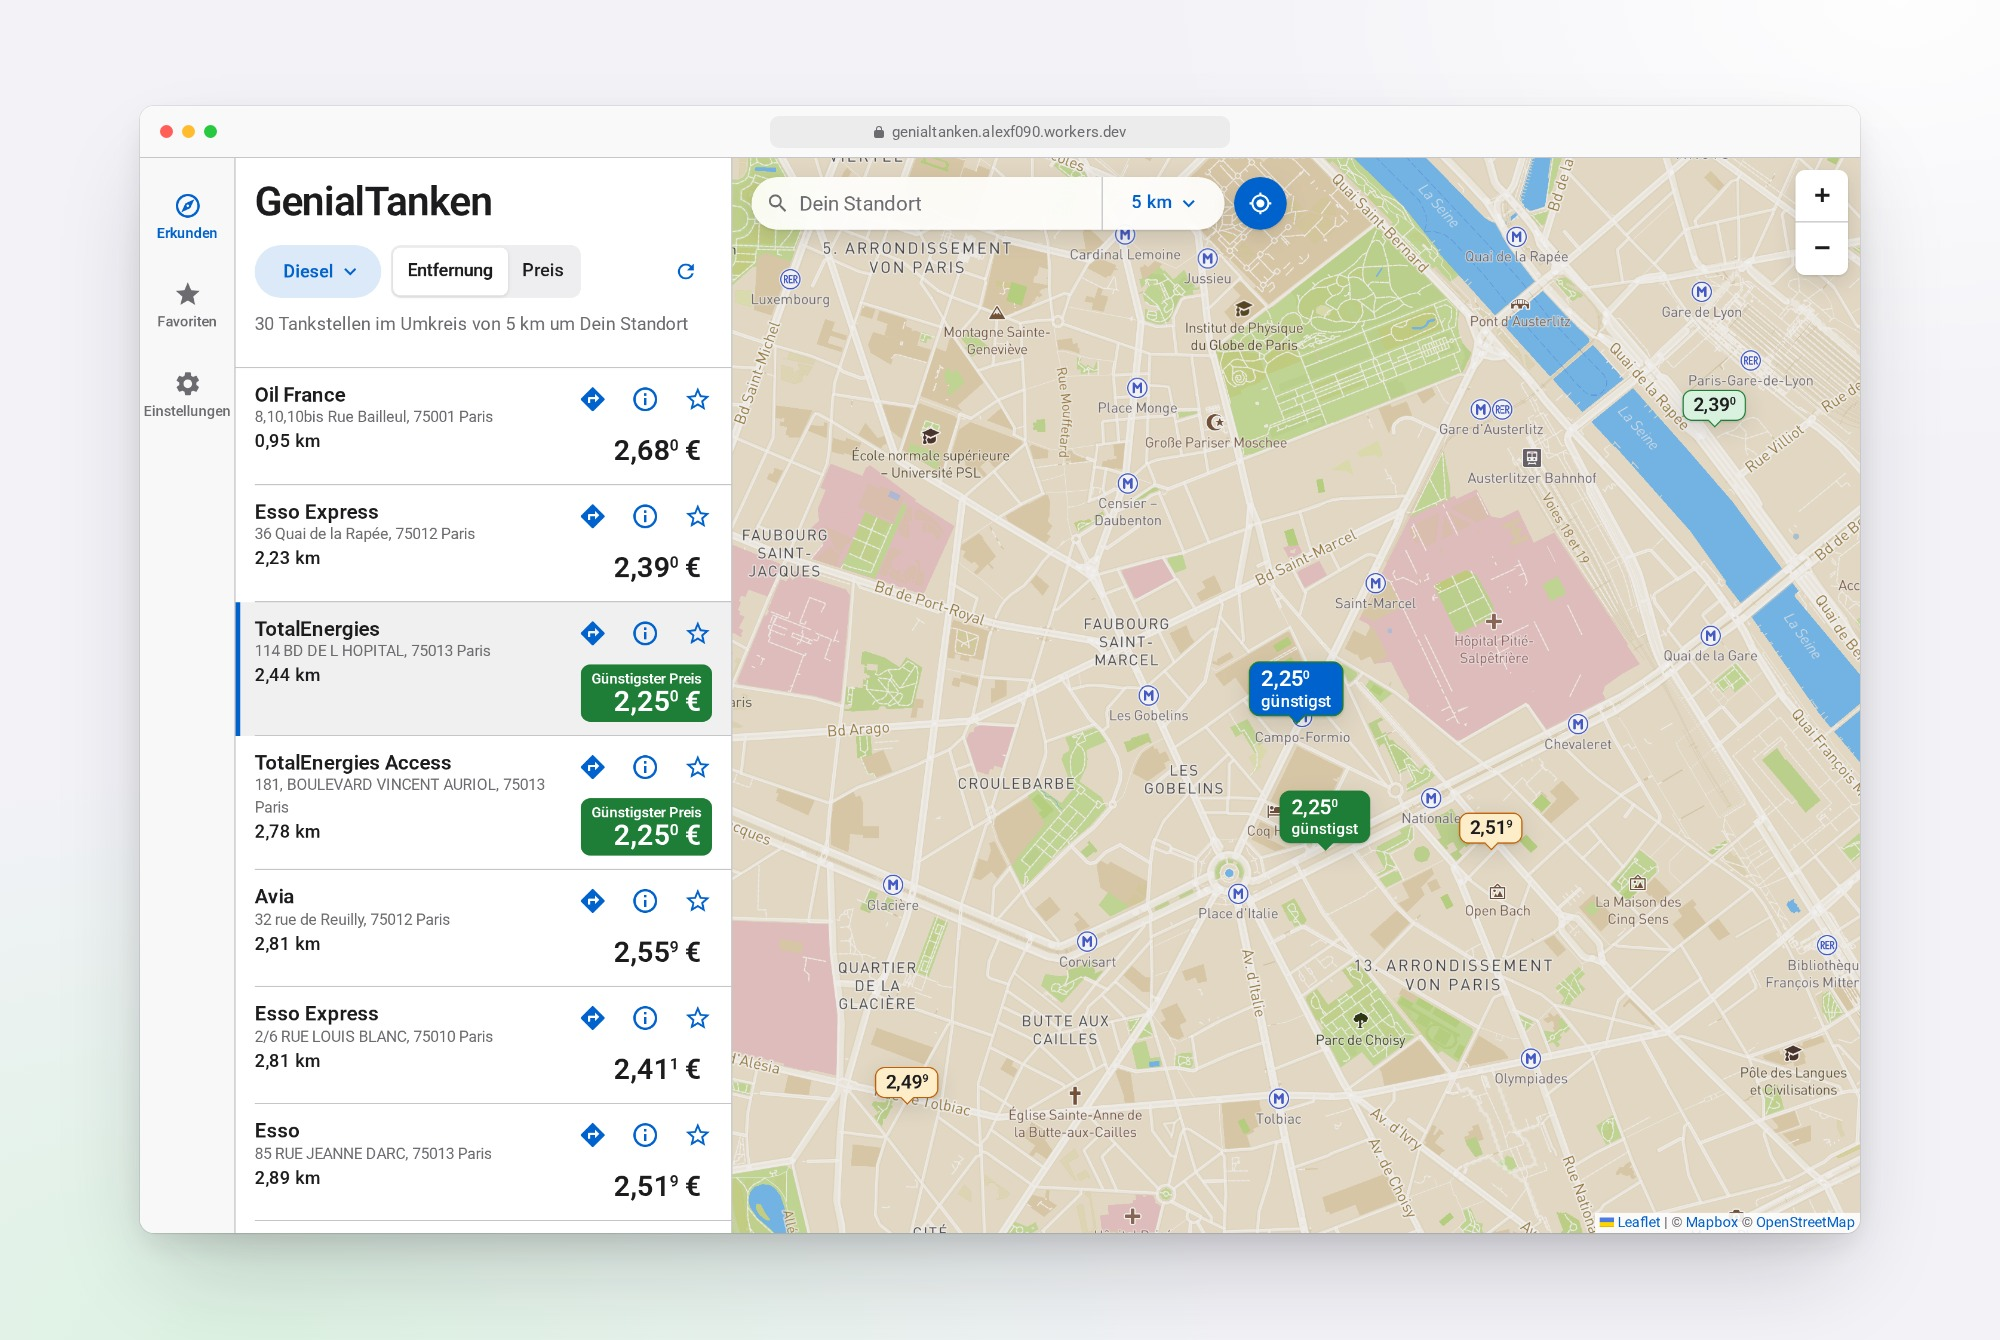
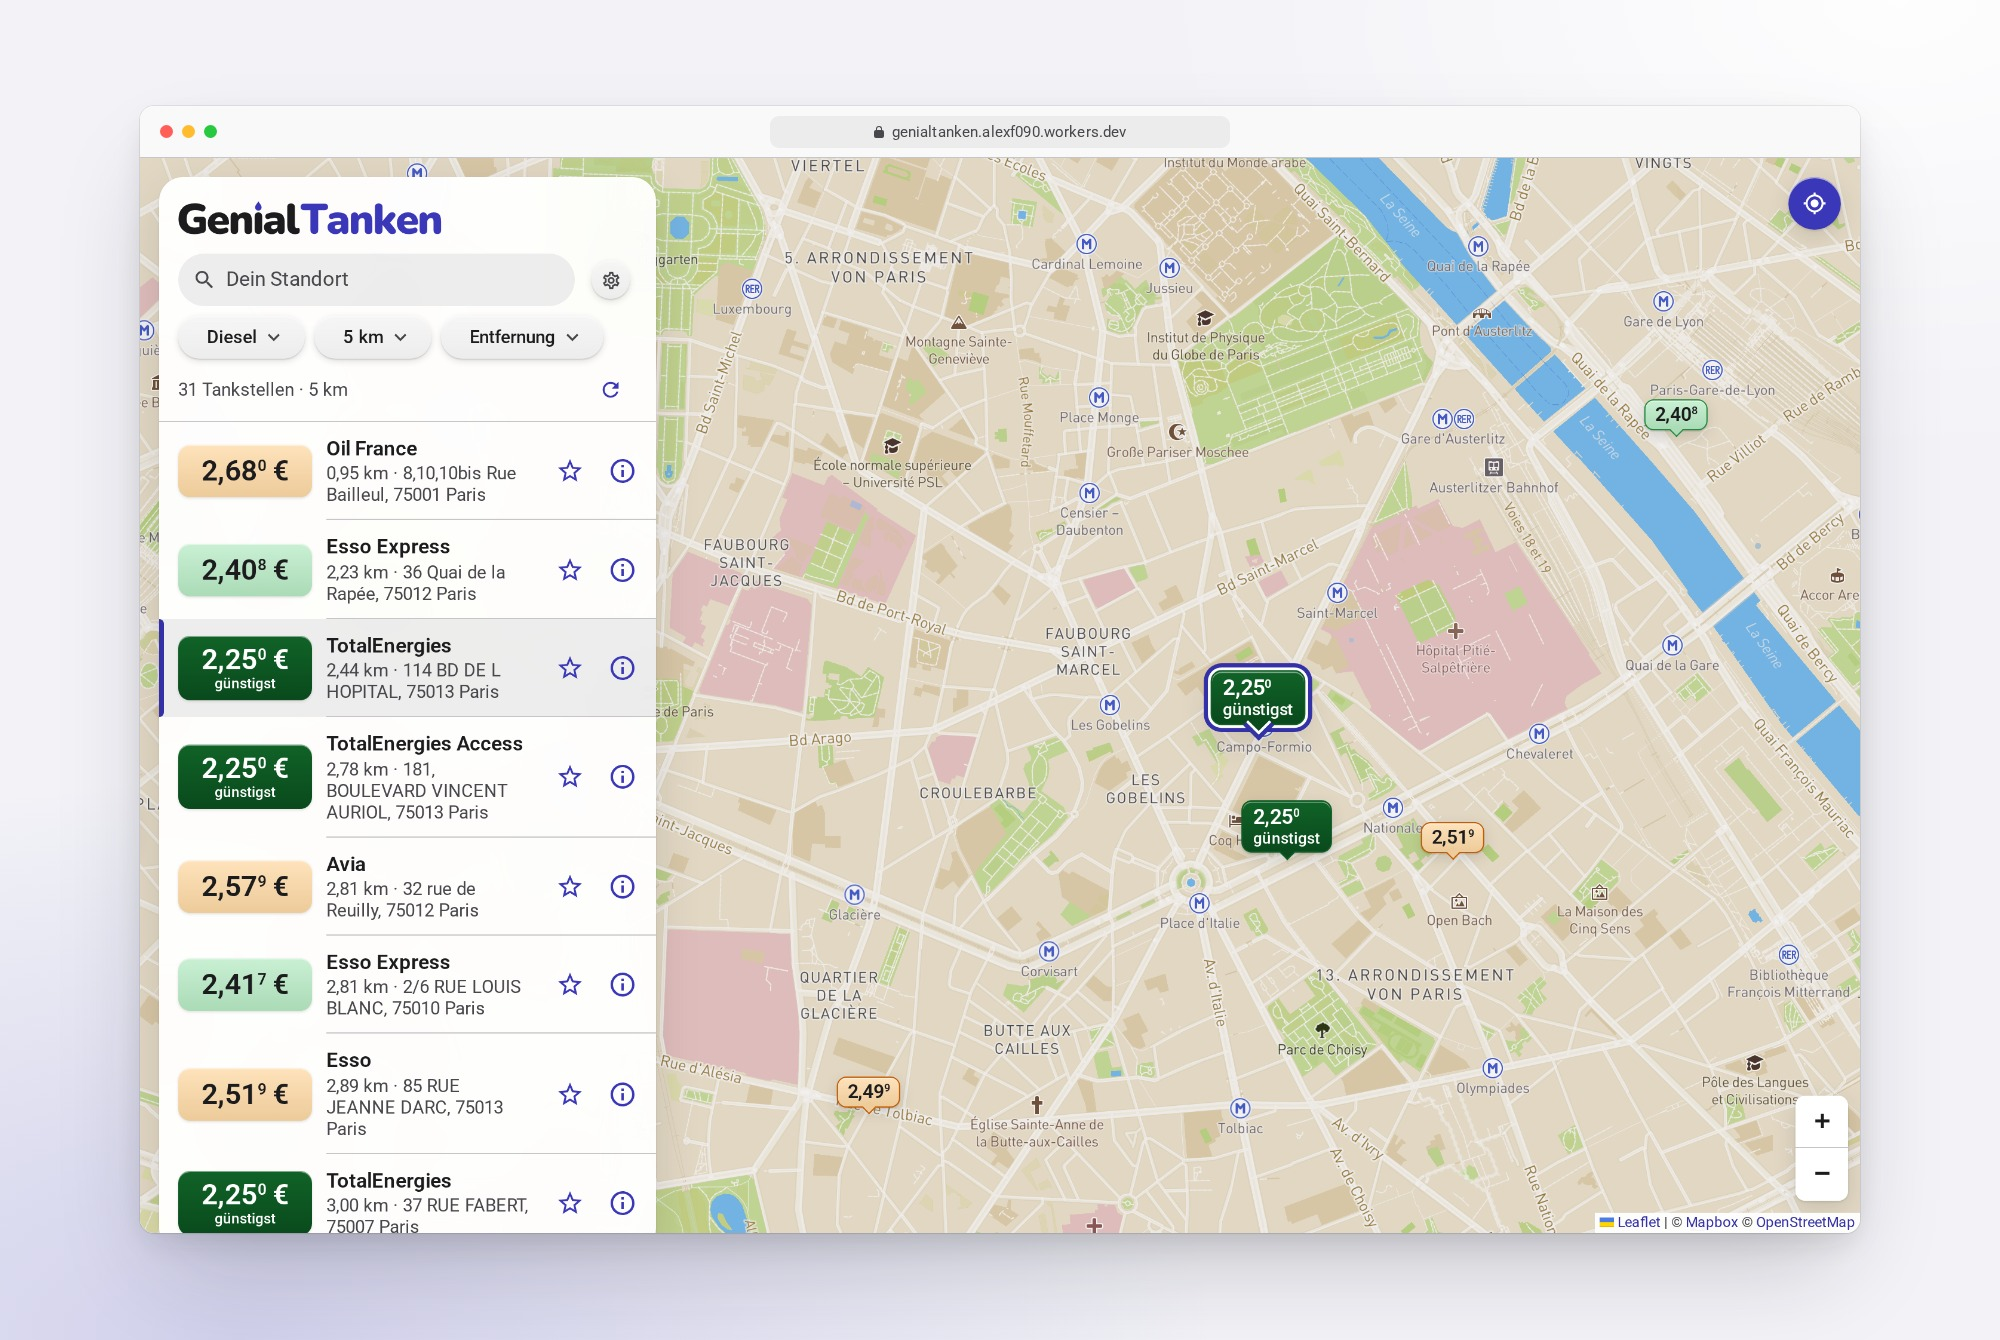
docs(readme): refresh product screenshots for the redesign (#28)

Changed region(s): [[0.0, 0.0918, 0.93, 1.0]]

diff --git a/e2e/product-shots/composition.html b/e2e/product-shots/composition.html
@@ -323,23 +323,13 @@
         position: absolute;
         left: 112px;
         top: 74px;
-        display: flex;
-        align-items: center;
-        gap: 18px;
-        font-size: 58px;
-        font-weight: 700;
-        letter-spacing: -0.02em;
+        height: 84px;
       }
 
-      /* The own-position dot of the map, the one place where the app always starts */
-      .wordmark__dot {
-        width: 26px;
-        height: 26px;
-        border-radius: 50%;
-        background: var(--color-own-position);
-        box-shadow:
-          0 0 0 5px var(--color-surface),
-          0 0 0 14px color-mix(in srgb, var(--color-own-position) 18%, transparent);
+      .wordmark img {
+        display: block;
+        height: 100%;
+        width: auto;
       }
     </style>
   </head>
@@ -393,7 +383,7 @@
       const createWordmark = () => {
         const wordmark = document.createElement('div');
         wordmark.className = 'wordmark';
-        wordmark.innerHTML = '<span class="wordmark__dot"></span>GenialTanken';
+        wordmark.innerHTML = '<img src="../../apps/web/icon-source/wordmark.svg" alt="" />';
         return wordmark;
       };
 

diff --git a/e2e/product-shots/capture-product-shots.ts b/e2e/product-shots/capture-product-shots.ts
@@ -149,7 +149,12 @@ const cheapestRow = (page: Page): Locator =>
   stationCards(page).filter({ hasText: 'Günstigster Preis' }).first();
 
 const sortByPrice = async (page: Page): Promise<void> => {
-  await page.getByText('Preis', { exact: true }).click();
+  await page.getByRole('button', { name: /^Sortierung: / }).click();
+  await page
+    .getByRole('menu', { name: 'Sortierung', exact: true })
+    .getByRole('menuitemradio', { name: 'Preis', exact: true })
+    .click();
+  await expect(page.getByRole('button', { name: 'Sortierung: Preis', exact: true })).toBeVisible();
   await waitUntilSettled(page);
 };
 

diff --git a/README.md b/README.md
@@ -23,7 +23,7 @@ GenialTanken started as a React capstone project and is being rebuilt with Angul
 
 ![GenialTanken on three phones: the map with price tags above the station list at half height, the details card of a station with its prices per fuel, and the same explore view in dark mode](docs/images/product-mobile.jpg)
 
-The images show the live app with real prices; they predate the redesign above and are refreshed once it is deployed to production. To regenerate them, run `node e2e/product-shots/capture-product-shots.ts` (details in the script header).
+The images show the live app with real prices. To regenerate them, run `node e2e/product-shots/capture-product-shots.ts` (details in the script header).
 
 ## Architecture
 
